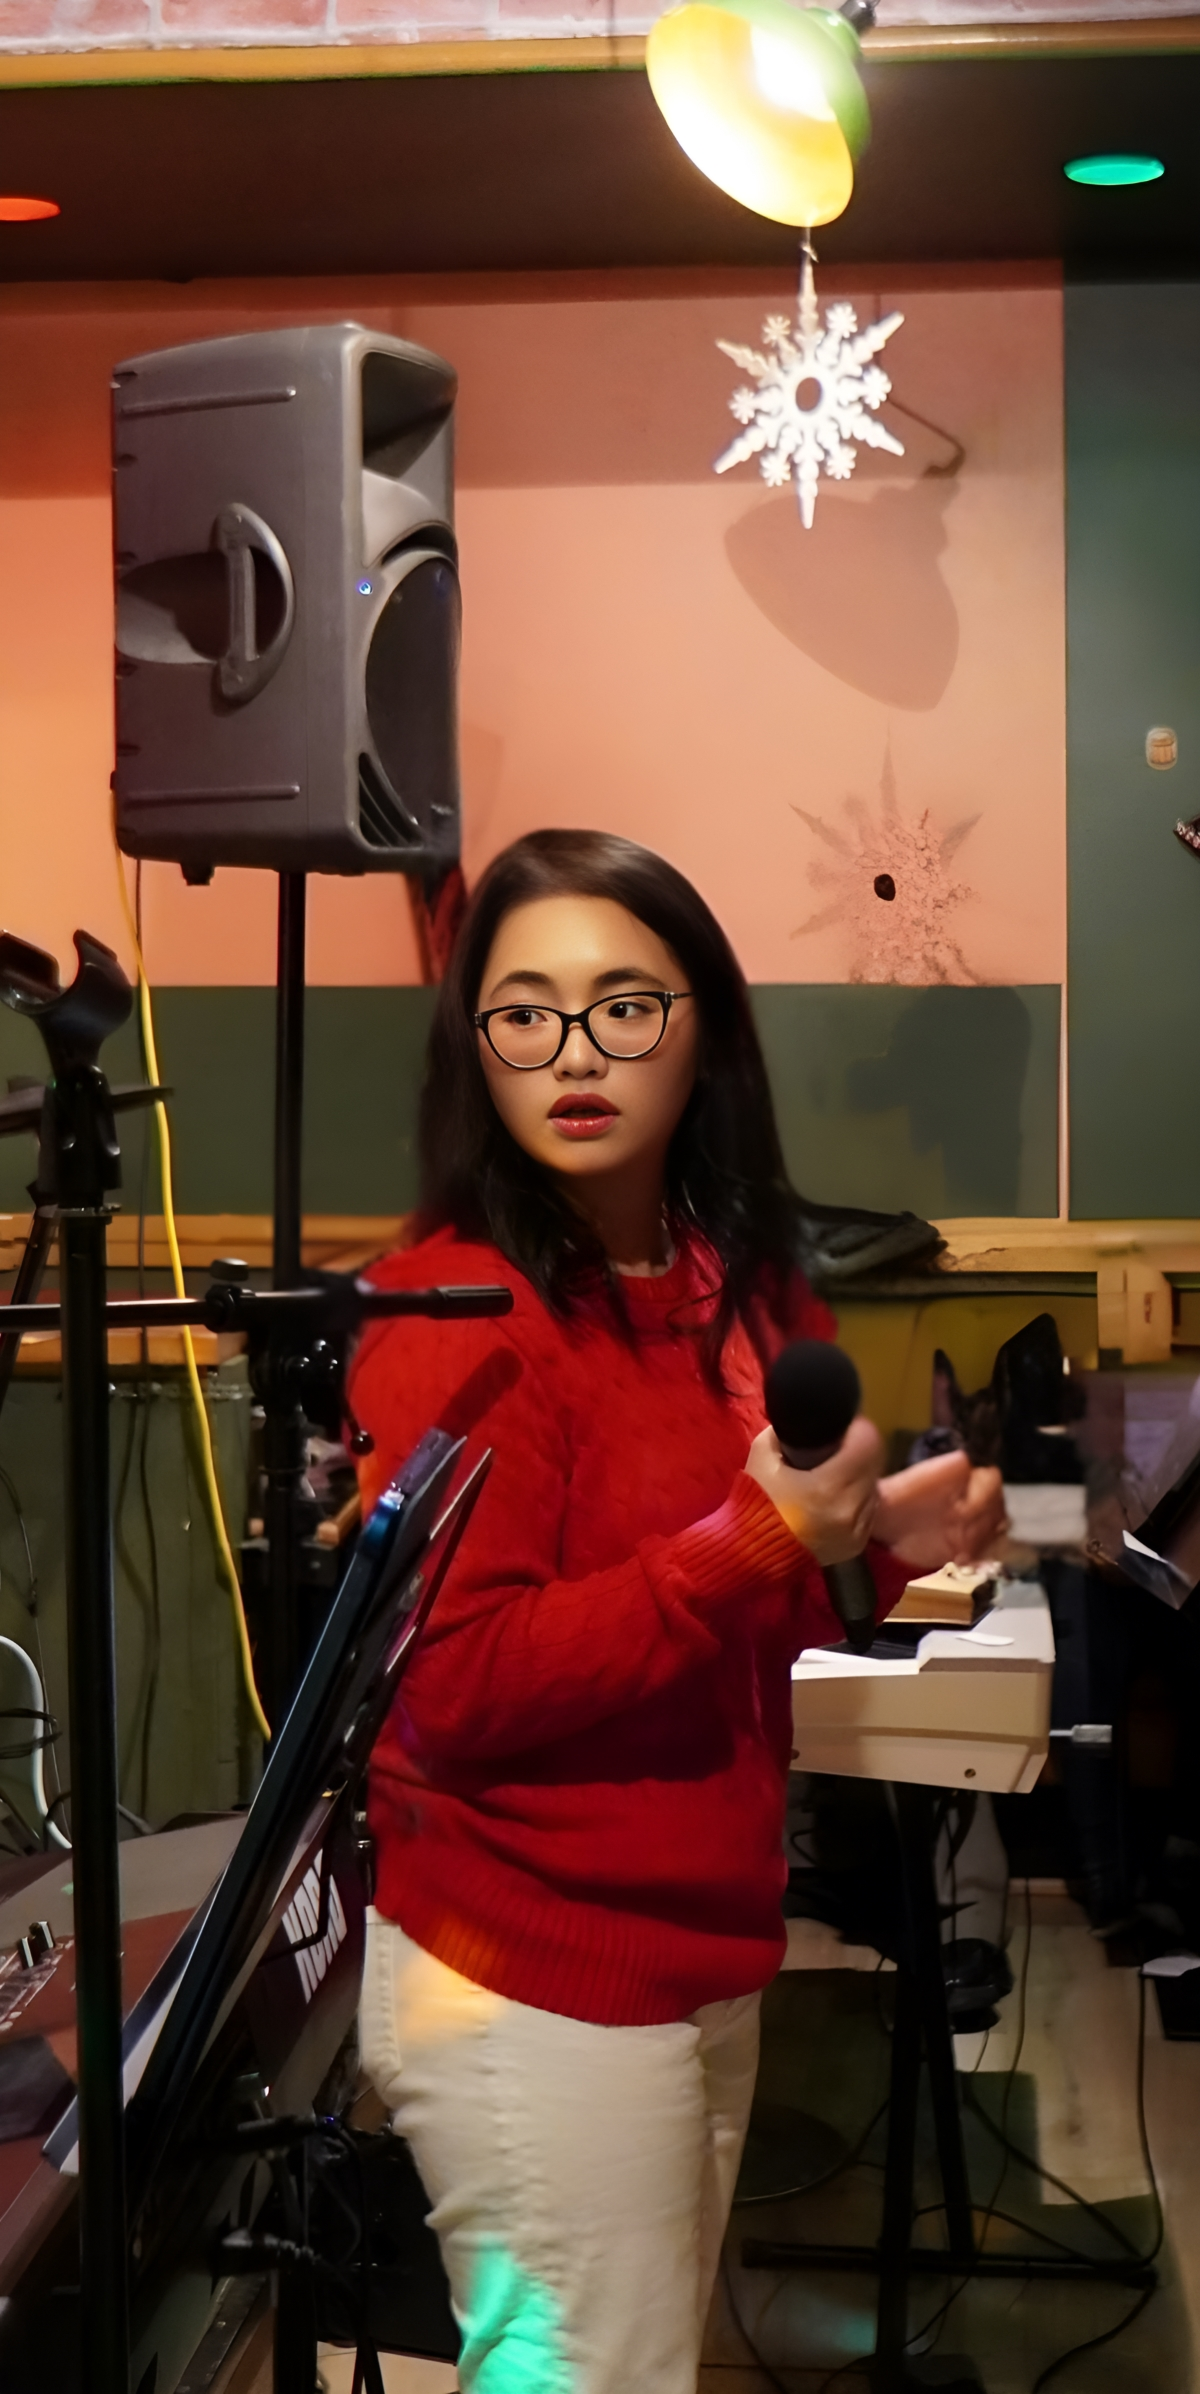
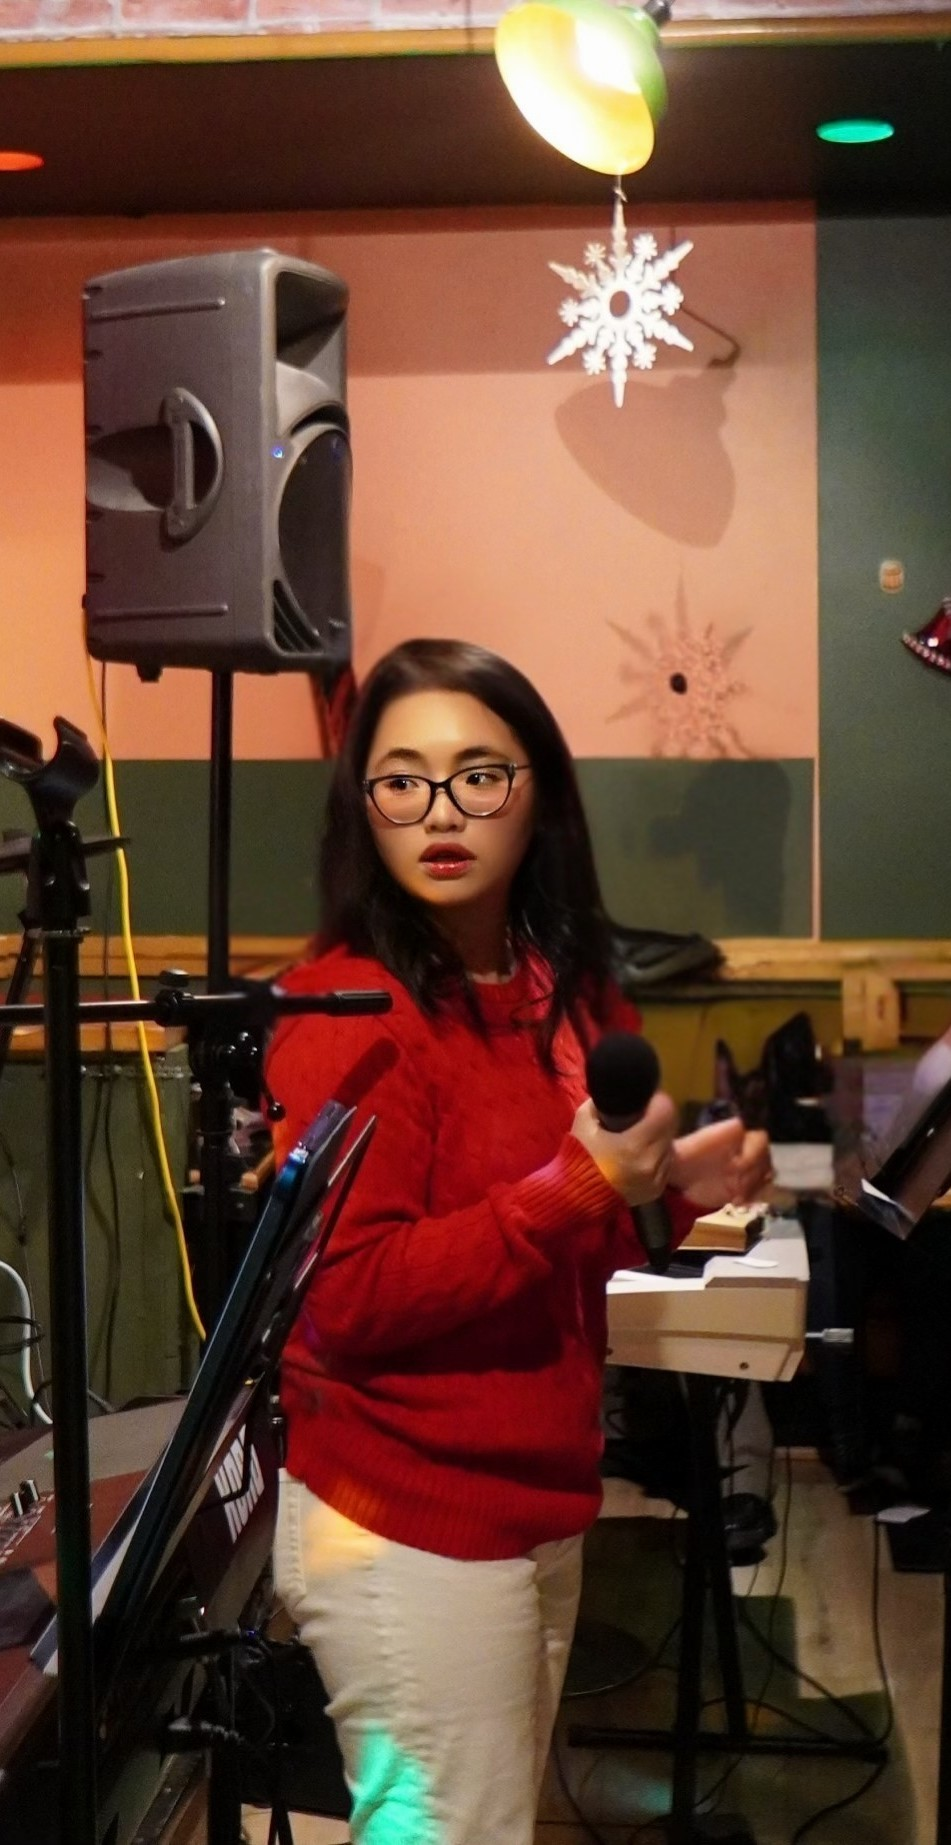
Update beginner guitar event info

diff --git a/app/[locale]/(Home)/events/(Classes)/class/_component/ClassDescription.tsx b/app/[locale]/(Home)/events/(Classes)/class/_component/ClassDescription.tsx
@@ -5,13 +5,14 @@ interface ClassDescriptionProps {
   description: string
   startDate: Date
   endDate: Date
+  endTime: Date
   startTime: Date
   duration: string
   capacity: number
   location: string
   instructor: string
   schedules: {
-    id:number
+    id: number
     startTime: Date
     duration: string
     endTime: Date
@@ -22,33 +23,36 @@ interface ClassDescriptionProps {
 const ClassDescription = ({
   description,
   startDate,
-  endDate,
   startTime,
   location,
   schedules,
+  endTime,
+  endDate,
 }: ClassDescriptionProps) => {
   return (
     <div className="mx-auto flex max-w-[1100px] flex-col items-start gap-y-8 p-6 md:p-12 lg:gap-y-8 lg:p-16">
       {/* Time and Location */}
-      <div className="grid gap-x-4 md:flex w-full justify-between gap-y-4">
+      <div className="grid w-full justify-between gap-x-4 gap-y-4 md:flex">
         <div>
           <h1 className="mb-2 font-[Poppins] text-xl font-extrabold md:text-3xl lg:text-4xl">
             Time & Location
           </h1>
           <p>
-            {startDate.toLocaleDateString('en-GB').substring(0, 5)},{' '}
-            {startTime.toLocaleTimeString('en-GB').substring(0, 5)} -{' '}
-            {endDate.toLocaleTimeString('en-GB').substring(0, 5)}
+            {startDate.toLocaleDateString('en-GB').substring(0, 5)} -{' '}
+            {endDate.toLocaleDateString('en-GB').substring(0, 5)} (End date
+            TBD), {startTime.toLocaleTimeString('en-GB').substring(0, 5)} -{' '}
+            {endTime.toLocaleTimeString('en-GB').substring(0, 5)}
           </p>
           <p>{location}</p>
         </div>
         <div>
           <iframe
-            src="https://www.google.com/maps/d/u/0/embed?mid=1Bid48QaiPGoMB5agPc-ZaoZfLrtYc3g&ehbc=2E312F&noprof=1"
-            title = "Our location"
+            src="https://www.google.com/maps/d/u/5/embed?mid=1pqdfvsCcNlRJQx5ZQfFsx7TFghOn44o&ehbc=2E312F"
+            title = "VVF Beginner Guitar Lesson"
             width="300"
-            height="200"
-        ></iframe>
+            height="250"
+            allowFullScreen
+          ></iframe>
         </div>
       </div>
 
@@ -65,10 +69,13 @@ const ClassDescription = ({
         <h1 className="mb-2 font-[Poppins] text-xl font-extrabold md:text-3xl lg:text-4xl">
           Schedule
         </h1>
+        <h3 className="mb-2 font-[Poppins] italic">
+          (May change according to instructor)
+        </h3>
         <div className="flex flex-col gap-y-4">
           {schedules.map((schedule) => (
             <ScheduleItem
-              key = {schedule.id}
+              key={schedule.id}
               startTime={schedule.startTime}
               duration={schedule.duration}
               endTime={schedule.endTime}
@@ -79,7 +86,13 @@ const ClassDescription = ({
       </div>
 
       {/* Buy Button */}
-      <a href='https://forms.gle/Z2z2gfggF5AyG5Rr9' target="_blank" rel="noopener noreferrer"><Button>Reserve Now</Button></a>
+      <a
+        href="https://docs.google.com/forms/d/1u6MqzvwTdQhEwiwBNa1mf_IIEpWiKpK9dDWk-85Vv0E/viewform?edit_requested=true"
+        target="_blank"
+        rel="noopener noreferrer"
+      >
+        <Button>Reserve Now</Button>
+      </a>
     </div>
   )
 }

diff --git a/app/[locale]/(Home)/events/(Classes)/class/[classId]/page.tsx b/app/[locale]/(Home)/events/(Classes)/class/[classId]/page.tsx
@@ -10,7 +10,7 @@ const eventList = [
       'To provide accessible and high-quality guitar lessons to members and non-members of the Viet Vibe Foundation (VVF), fostering musical skills and community engagement.',
     eventCategoryId: '1',
     thumbnail: '/bg/guitar-background.jpg',
-    startDate: new Date('2025-02-10T00:00:00'),
+    startDate: new Date('2025-02-06T00:00:00'),
     endDate: new Date('2025-06-10T00:00:00'),
     dates: ['Sat'],
     duration: '1.5 hours',
@@ -21,30 +21,31 @@ const eventList = [
     updatedAt: new Date(),
     createdById: '1',
     price: 8.5,
-    location: 'Metro Vancouver',
-    startTime: new Date('2025-03-10T02:00:00'),
+    location: 'Victoria - Fraser View',
+    startTime: new Date('2025-03-10T18:00:00'),
+    endTime: new Date('2025-03-10T19:30:00'),
     instructor: 'Trong Nguyen',
     schedules: [
       {
         id: 1,
-        startTime: new Date('2025-03-10T02:00:00'),
-        duration: '1.5 hours',
-        endTime: new Date('2025-03-10T03:00:00'),
-        action: 'Lesson',
+        startTime: new Date('2025-03-10T18:00:00'),
+        duration: '0.5 hours',
+        endTime: new Date('2025-03-10T18:30:00'),
+        action: 'Practice previous lesson',
       },
       { 
         id: 2,
-        startTime: new Date('2025-03-10T03:00:00'),
-        duration: '1.5 hours',
-        endTime: new Date('2025-03-10T04:00:00'),
-        action: 'Dance',
+        startTime: new Date('2025-03-10T18:30:00'),
+        duration: '0.5 hours',
+        endTime: new Date('2025-03-10T19:00:00'),
+        action: 'Learn new lesson',
       },
       {
         id: 3,
-        startTime: new Date('2025-03-10T04:00:00'),
-        duration: '1.5 hours',
-        endTime: new Date('2025-03-10T05:00:00'),
-        action: 'Non-Musical',
+        startTime: new Date('2025-03-10T19:00:00'),
+        duration: '0.5 hours',
+        endTime: new Date('2025-03-10T19:30:00'),
+        action: 'Play new song ',
       },
     ],
   },
@@ -58,12 +59,14 @@ const ClassPage = () => {
         location={eventList[0].location}
         startDate={eventList[0].startDate}
         instructor={eventList[0].instructor}
+        title={eventList[0].title}
       />
       <ClassDescription
         description={eventList[0].description}
         startDate={eventList[0].startDate}
         endDate={eventList[0].endDate}
         startTime={eventList[0].startTime}
+        endTime={eventList[0].endTime}
         duration={eventList[0].duration}
         capacity={eventList[0].capacity}
         location={eventList[0].location}

diff --git a/app/[locale]/(Home)/events/page.tsx b/app/[locale]/(Home)/events/page.tsx
@@ -9,9 +9,9 @@ const EventsPage = async({ params }: { params: Promise<{ locale: string }> }) =>
       description: 'asdsad',
       eventCategoryId: '1',
       thumbnail: '/bg/guitar-background.jpg',
-      startDate: new Date('2025-02-10T00:00:00'),
+      startDate: new Date('2025-02-06T00:00:00'),
       endDate: new Date('2025-06-10T00:00:00'),
-      dates: ['Sat'],
+      dates: ['Thurs'],
       duration: '1.5 hours',
       capacity: 10,
       ticketsSold: 5,
@@ -20,8 +20,8 @@ const EventsPage = async({ params }: { params: Promise<{ locale: string }> }) =>
       updatedAt: new Date(),
       createdById: '1',
       price: 8.5,
-      location: 'Metro Vancouver',
-      startTime: new Date('2025-03-10T02:00:00'),
+      location: 'Victoria - Fraser View',
+      startTime: new Date('2025-02-06T18:00:00'),
     },
     {
       id: 'elenaDance',
@@ -63,7 +63,7 @@ const EventsPage = async({ params }: { params: Promise<{ locale: string }> }) =>
       createdById: '1',
       price: 15,
       location: '139 Keefer Street',
-      startTime: new Date('2025-03-10T01:00:00'),
+      startTime: new Date('2025-03-10T17:00:00'),
     },
   ]
   const { locale } = await params

diff --git a/app/[locale]/(Home)/events/(Classes)/class/_component/ClassImage.tsx b/app/[locale]/(Home)/events/(Classes)/class/_component/ClassImage.tsx
@@ -7,6 +7,7 @@ interface ClassImageProps {
   startDate: Date
   endDate?: Date
   instructor: string
+  title:string
 }
 
 const ClassImage = ({
@@ -14,6 +15,7 @@ const ClassImage = ({
   location,
   startDate,
   instructor,
+  title
 }: ClassImageProps) => {
   return (
     <div className="mx-auto grid w-full max-w-[1300px] grid-cols-1 p-6 md:grid-cols-2">
@@ -29,12 +31,12 @@ const ClassImage = ({
         <span className="text-sm text-muted">
           {startDate.toLocaleDateString()} | {location}
         </span>
-        <h2 className="-mt-3 mb-1 text-3xl font-extrabold">{location}</h2>
+        <h2 className="-mt-3 mb-1 text-3xl font-extrabold">{title}</h2>
         <span>
           A class by <span className="font-bold">{instructor}</span>
         </span>
         <a
-          href="https://forms.gle/Z2z2gfggF5AyG5Rr9"
+          href="https://docs.google.com/forms/d/1u6MqzvwTdQhEwiwBNa1mf_IIEpWiKpK9dDWk-85Vv0E/viewform?edit_requested=true"
           target="_blank"
           rel="noopener noreferrer"
         >

diff --git a/app/[locale]/(Home)/_components/copyright.tsx b/app/[locale]/(Home)/_components/copyright.tsx
@@ -9,7 +9,7 @@ const Copyright = async({locale}:CopyrightProps) => {
   const { t } = await initTranslation(locale, ['homePage', 'common'])
 
   return (
-    <div className="flex h-[45px] w-full flex-row items-center bg-[#a9382b] px-8 text-slate-300 justify-center">
+    <div className="flex h-[33px] w-full flex-row items-center bg-[#a9382b] px-8 text-slate-300 justify-center">
       <div className="flex gap-x-2">
         <span>{t('content-copyRight')}</span>
       </div>

diff --git a/app/[locale]/(Home)/events/_components/EventCard.tsx b/app/[locale]/(Home)/events/_components/EventCard.tsx
@@ -58,7 +58,7 @@ const EventCard = ({ event }: EventCardProps) => {
               <span>{event.dates.map((date) => date).join(', ')}</span>
               <span className="ml-auto">
                 {' '}
-                at {event.startTime.toLocaleTimeString('en-GB', {})}
+                at {event.startTime.toLocaleTimeString('en-GB', {}).substring(0, 5)}
               </span>
             </div>
           </div>
